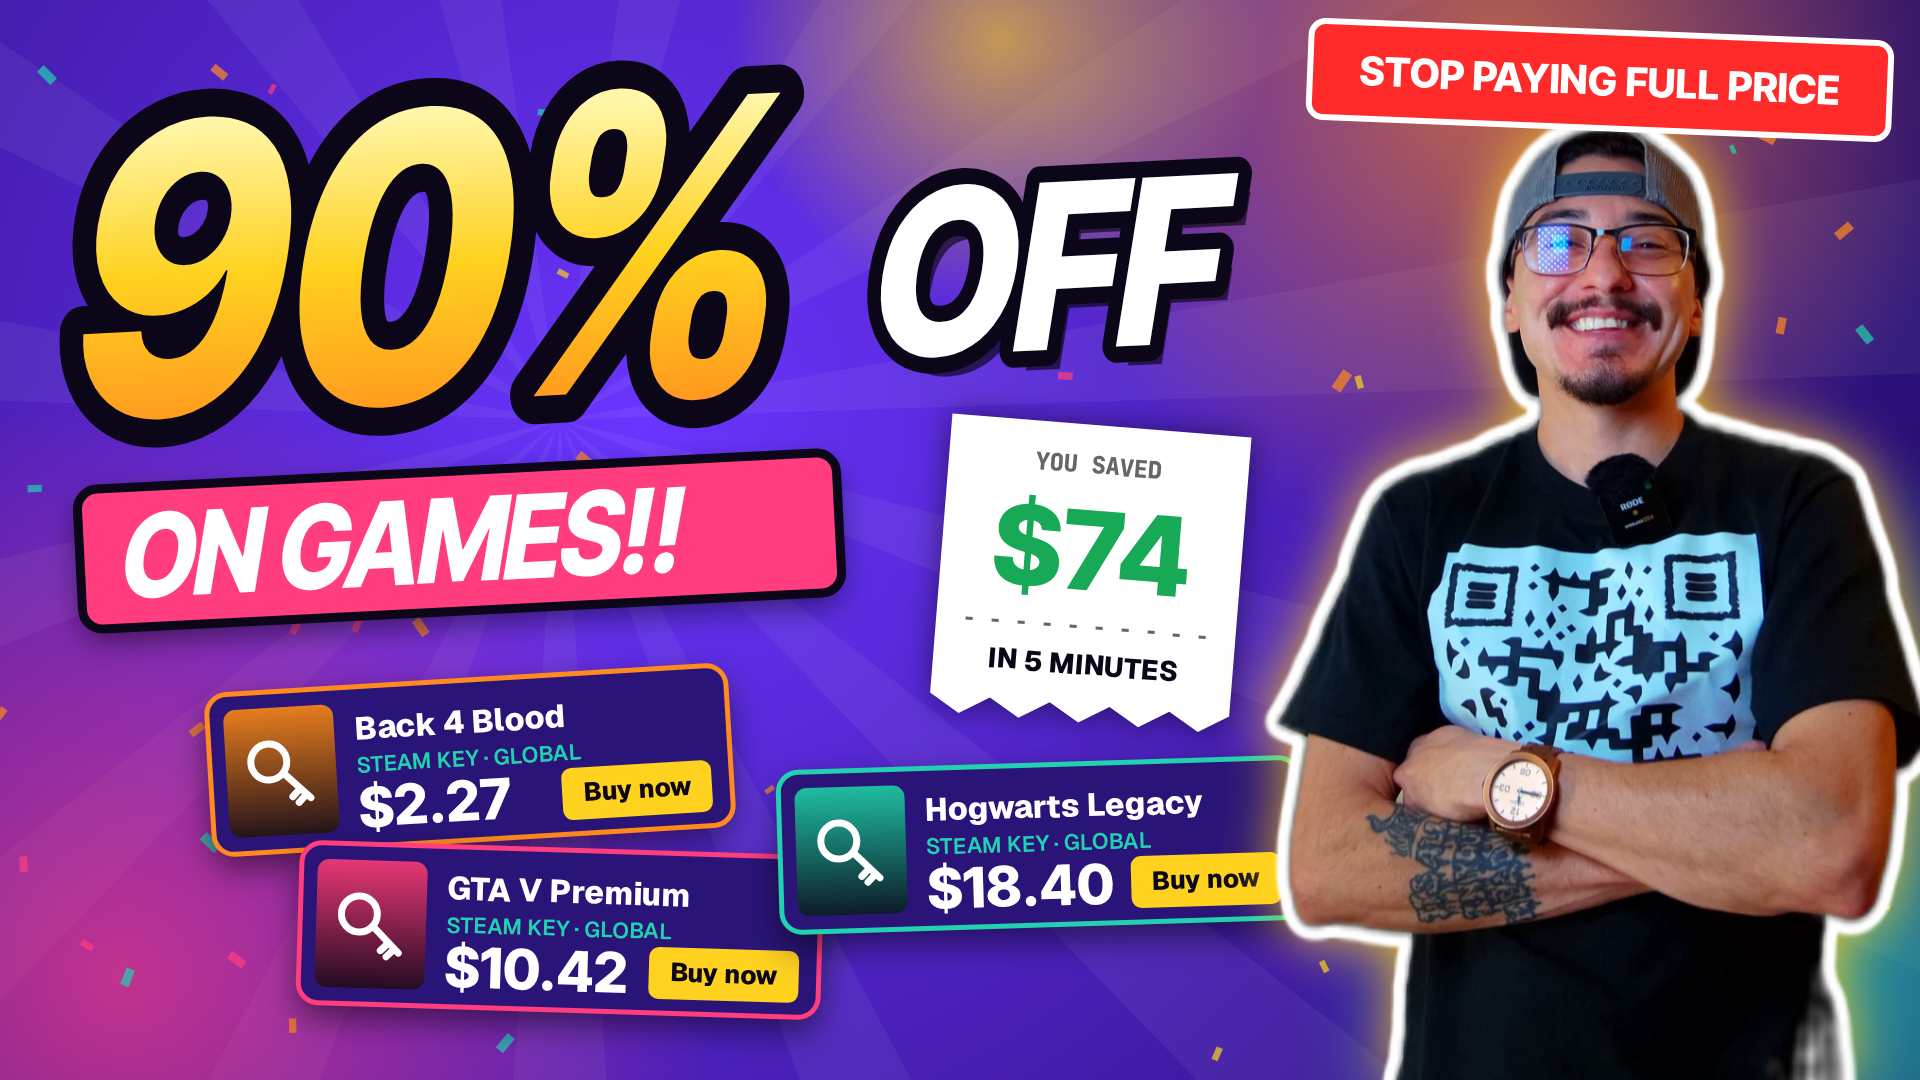
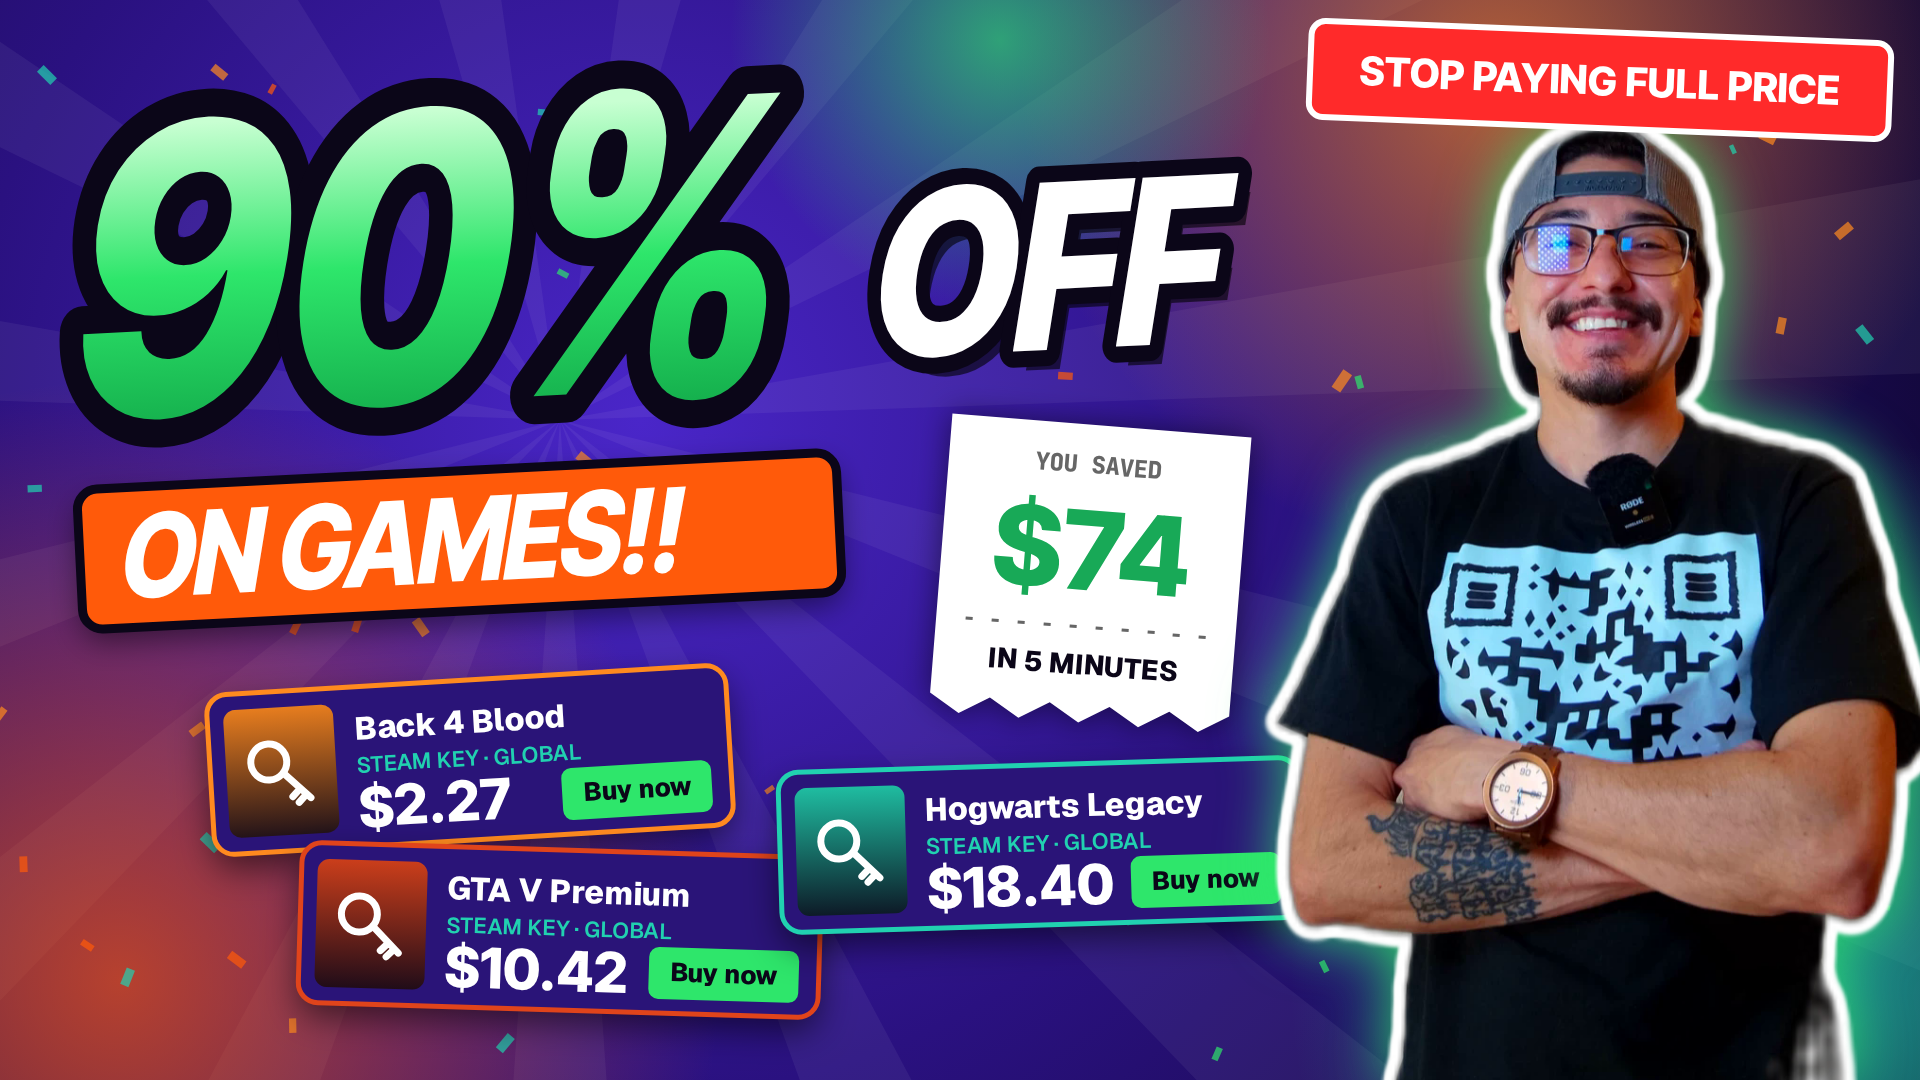
Eneba thumbnail: darker purple, pink to orange, yellow highlights to green
Claude-Session: https://claude.ai/code/session_01NSJvdmHsHoazKiuuGVQfMY

diff --git a/story/eneba_thumb.html b/story/eneba_thumb.html
@@ -8,14 +8,14 @@
 // a fanned stack of game-key price cards (prices from the video), a "$74 SAVED" receipt and the creator cutout.
 (async () => {
   const c = document.getElementById('s').getContext('2d'), W = 1920, H = 1080, TAU = Math.PI * 2;
-  const PUR = '#4A1FB8', DEEP = '#1E0A5E', YEL = '#FFD21F', ORA = '#FF8A1F', PINK = '#FF3D7F', TEAL = '#21D1B0', INK = '#0B0618';
+  const PUR = '#4A1FB8', DEEP = '#0C0528', YEL = '#2EE66B', ORA = '#FF8A1F', PINK = '#FF5A0A', TEAL = '#21D1B0', INK = '#0B0618';
   const D = (s) => `900 ${s}px "Inter Tight", sans-serif`, G = (w, s) => `${w} ${s}px Geist, "Inter Tight", sans-serif`, MONO = (s) => `800 ${s}px "JetBrains Mono", monospace`;
   await Promise.all([document.fonts.load(D(100)), document.fonts.load(G(800, 40)), document.fonts.load(G(600, 40)), document.fonts.load(MONO(30))]);
   const me = new Image(); me.src = 'kal_cutout.png'; await me.decode();
   const rr = (x, y, w, h, r) => { c.beginPath(); c.roundRect(x, y, w, h, r); };
   const hash = (a, b = 0) => { let n = Math.imul(a | 0, 73856093) ^ Math.imul(b | 0, 19349663); n = Math.imul(n ^ (n >>> 15), 0x2c1b3c6d); n ^= n >>> 12; return (n >>> 0) / 4294967296; };
   // ---- background
-  let g = c.createRadialGradient(640, 420, 0, 640, 420, 1500); g.addColorStop(0, '#6A35FF'); g.addColorStop(0.45, PUR); g.addColorStop(1, DEEP); c.fillStyle = g; c.fillRect(0, 0, W, H);
+  let g = c.createRadialGradient(640, 420, 0, 640, 420, 1500); g.addColorStop(0, '#4A26C9'); g.addColorStop(0.45, '#2A1180'); g.addColorStop(1, DEEP); c.fillStyle = g; c.fillRect(0, 0, W, H);
   c.save(); c.translate(560, 420); for (let i = 0; i < 30; i++) { c.rotate(TAU / 30); if (i % 2) continue; c.beginPath(); c.moveTo(0, 0); c.lineTo(-120, -1700); c.lineTo(120, -1700); c.closePath(); c.fillStyle = 'rgba(255,255,255,0.055)'; c.fill(); } c.restore();
   // eneba-colored confetti blobs
   [[ORA, 1500, 80, 160], [PINK, 120, 980, 200], [TEAL, 1830, 980, 180], [YEL, 1000, 40, 90]].forEach(([col, x, y, r]) => { const gg = c.createRadialGradient(x, y, 0, x, y, r * 3); gg.addColorStop(0, col + 'AA'); gg.addColorStop(1, col + '00'); c.fillStyle = gg; c.fillRect(0, 0, W, H); });
@@ -23,7 +23,7 @@
   // ---- "90% OFF" with fire-gradient fill
   function big(s, x, y, size, fill, rot = -0.05, sx = 0.84) { c.save(); c.translate(x, y); c.rotate(rot); c.scale(sx, 1); c.font = 'italic ' + D(size); c.textAlign = 'left'; c.textBaseline = 'middle'; c.letterSpacing = '-6px'; c.lineJoin = 'round';
     c.fillStyle = 'rgba(0,0,0,0.6)'; c.fillText(s, 14, 20); c.lineWidth = size * 0.14; c.strokeStyle = INK; c.strokeText(s, 0, 0); c.fillStyle = fill; c.fillText(s, 0, 0); c.restore(); }
-  g = c.createLinearGradient(0, -170, 0, 170); g.addColorStop(0, '#FFF6A8'); g.addColorStop(0.45, YEL); g.addColorStop(1, ORA);
+  g = c.createLinearGradient(0, -170, 0, 170); g.addColorStop(0, '#C8FFD2'); g.addColorStop(0.45, YEL); g.addColorStop(1, '#0FA346');
   big('90%', 50, 300, 400, g);
   big('OFF', 860, 290, 230, '#FFFFFF');
   // GAMES ribbon
@@ -37,7 +37,7 @@
     c.font = G(800, 32); c.fillStyle = '#fff'; c.textBaseline = 'middle'; c.fillText(title, -w / 2 + 146, -36); c.font = G(600, 22); c.fillStyle = TEAL; c.fillText('STEAM KEY · GLOBAL', -w / 2 + 146, 0);
     c.font = D(56); c.fillStyle = '#fff'; c.fillText(price, -w / 2 + 146, 44); rr(w / 2 - 170, 14, 150, 52, 10); c.fillStyle = YEL; c.fill(); c.font = G(800, 26); c.fillStyle = INK; c.textAlign = 'center'; c.fillText('Buy now', w / 2 - 95, 41); c.restore(); }
   keyCard(470, 760, -0.06, 'Back 4 Blood', '$2.27', ORA);
-  keyCard(560, 930, 0.03, 'GTA V Premium', '$10.42', PINK);
+  keyCard(560, 930, 0.03, 'GTA V Premium', '$10.42', '#E0441B');
   keyCard(1040, 845, -0.03, 'Hogwarts Legacy', '$18.40', TEAL);
   // ---- receipt "$74 SAVED"
   c.save(); c.translate(1090, 575); c.rotate(0.08); c.shadowColor = 'rgba(0,0,0,0.5)'; c.shadowBlur = 30; c.beginPath(); c.moveTo(-150, -150); c.lineTo(150, -150); c.lineTo(150, 130); for (let i = 0; i <= 10; i++) c.lineTo(150 - i * 30, 130 + (i % 2 ? 18 : 0)); c.closePath(); c.fillStyle = '#fff'; c.fill(); c.shadowColor = 'transparent';
@@ -47,7 +47,7 @@
   const off = document.createElement('canvas'); off.width = W; off.height = H; const o = off.getContext('2d');
   for (let a = 0; a < 24; a++) o.drawImage(me, px + Math.cos(a / 24 * TAU) * 11, py + Math.sin(a / 24 * TAU) * 11, pw, ph);
   o.globalCompositeOperation = 'source-in'; o.fillStyle = '#fff'; o.fillRect(0, 0, W, H);
-  c.save(); c.shadowColor = 'rgba(255,210,31,0.85)'; c.shadowBlur = 55; c.drawImage(off, 0, 0); c.restore(); c.drawImage(me, px, py, pw, ph);
+  c.save(); c.shadowColor = 'rgba(46,230,107,0.85)'; c.shadowBlur = 55; c.drawImage(off, 0, 0); c.restore(); c.drawImage(me, px, py, pw, ph);
   // STOP PAYING FULL PRICE tag over his shoulder
   c.save(); c.translate(1600, 80); c.rotate(0.04); rr(-290, -48, 580, 96, 14); c.fillStyle = '#FF2A2A'; c.fill(); c.lineWidth = 6; c.strokeStyle = '#fff'; c.stroke(); c.font = D(40); c.fillStyle = '#fff'; c.textAlign = 'center'; c.textBaseline = 'middle'; c.fillText('STOP PAYING FULL PRICE', 0, 3); c.restore();
   document.body.dataset.ready = '1';
